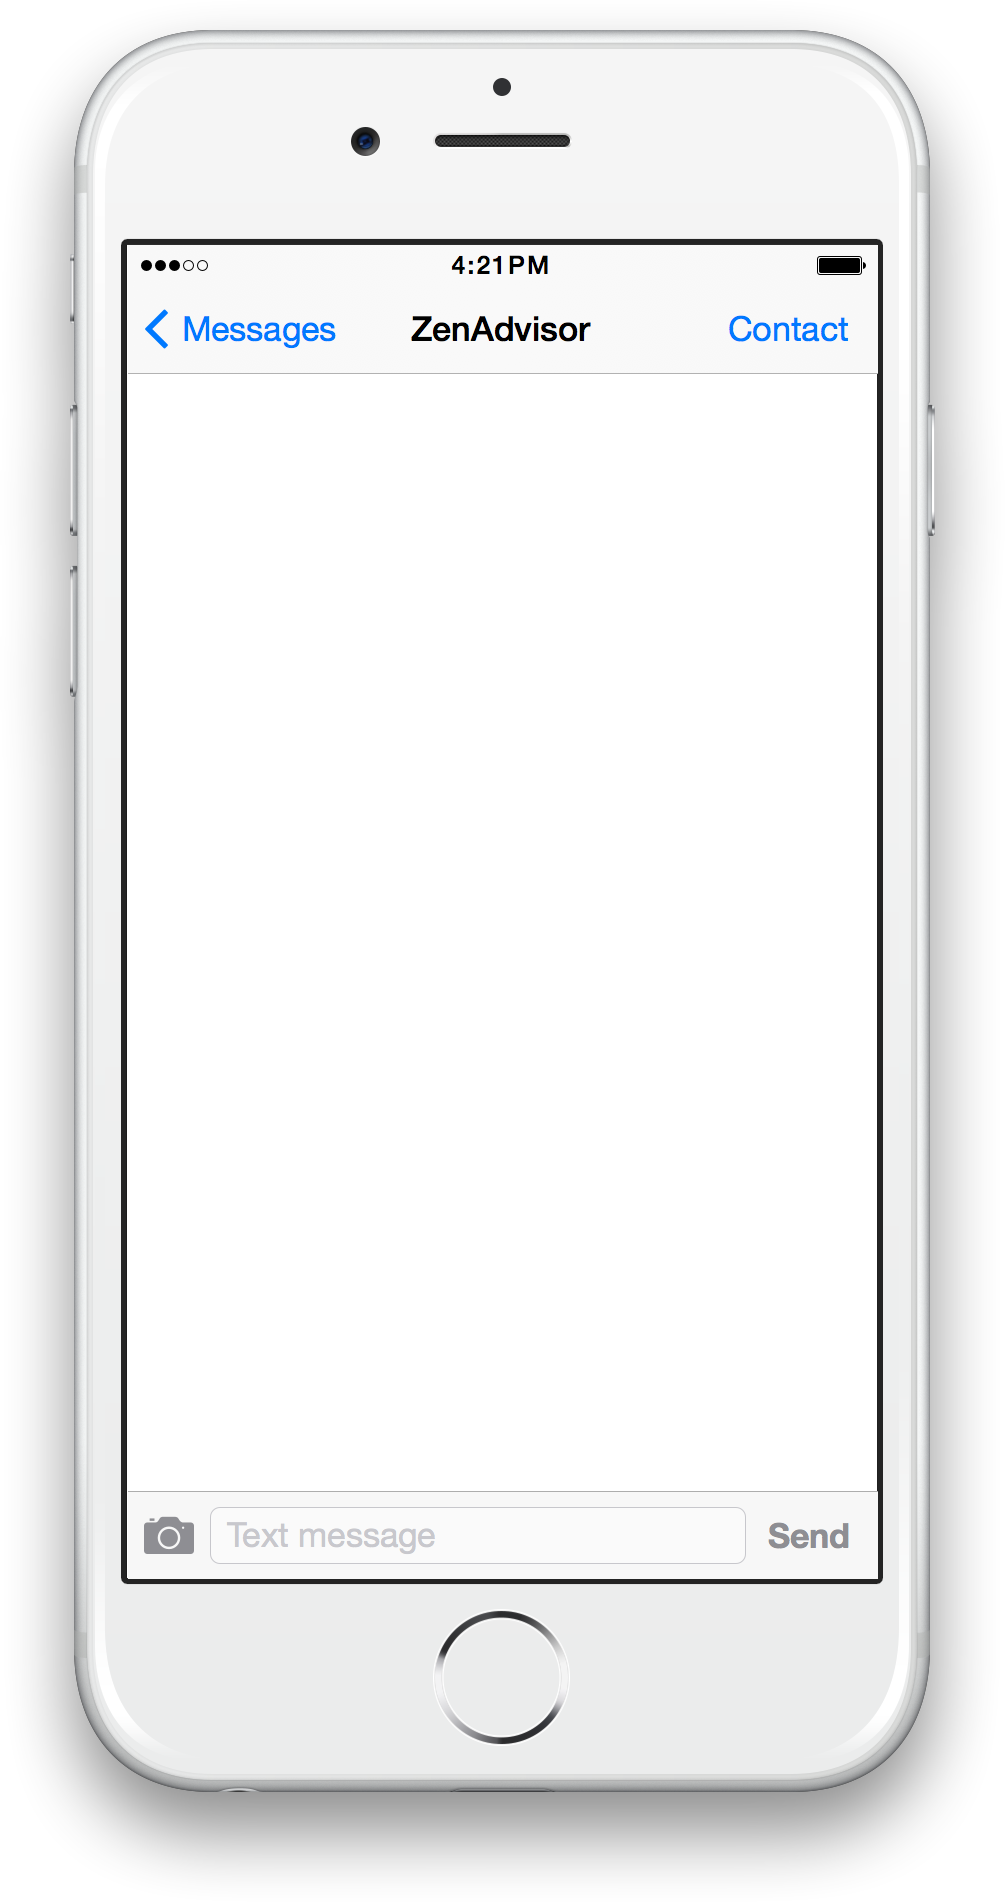
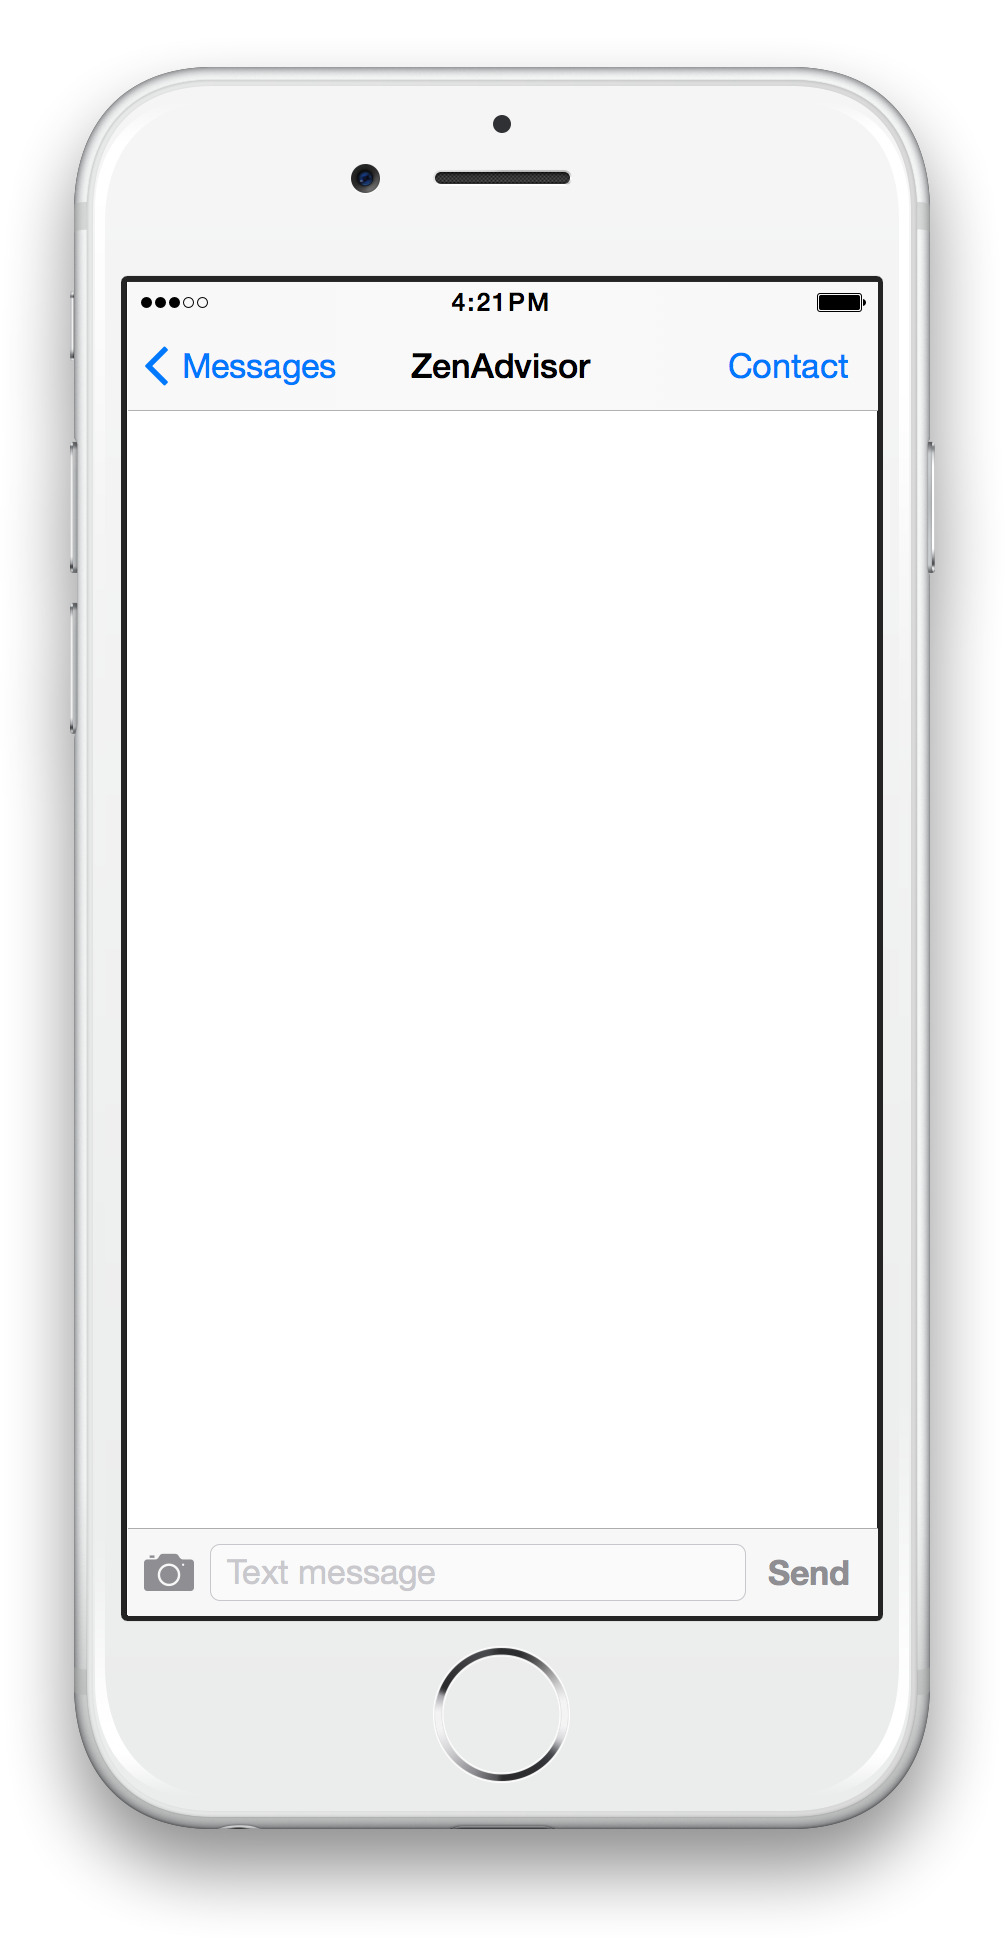
wip

diff --git a/public/blocks/mockup/mockup.less b/public/blocks/mockup/mockup.less
@@ -1,12 +1,93 @@
 .mockup {
-  width: 45%;
+  width: 50%;
   margin: 0 auto;
 
   &__phone {
-    padding-top: 18925%;
+    position: relative;
+    padding-top: 192.93%;
     background-position: center;
     background-repeat: no-repeat;
     background-image: url('img/iphone.png');
     background-size: contain;
+  }
+
+  &__phone-wrap {
+    display: flex;
+    align-items: center;
+    position: absolute;
+    height: 100%;
+    width: 100%;
+    left: 0;
+    top: 0;
+  }
+
+  &__messages {
+    overflow-y: auto;
+    margin: 0 auto;
+    width: 74.72%;
+    height: 57.71%;
+  }
+
+  &__message {
+    background-repeat: no-repeat;
+    background-position: center;
+    background-size: contain;
+  }
+
+  &__message_1 {
+    background-image: url("img/msg_01.png");
+    padding-top: 66.53%;
+  }
+  &__message_2 {
+    background-image: url("img/msg_02.png");
+    padding-top: 44.66%;
+  }
+  &__message_3 {
+    background-image: url("img/msg_03.png");
+    padding-top: 36.4%;
+  }
+  &__message_4{
+    background-image: url("img/msg_04.png");
+    padding-top: 50.26%;
+  }
+  &__message_5{
+    background-image: url("img/msg_05.png");
+    padding-top: 22.93%;
+  }
+  &__message_6{
+    background-image: url("img/msg_06.png");
+    padding-top: 12%;
+  }
+  &__message_7{
+    background-image: url("img/msg_07.png");
+    padding-top: 9.6%;
+  }
+  &__message_8{
+    background-image: url("img/msg_08.png");
+    padding-top: 24.4%;
+  }
+  &__message_9{
+    background-image: url("img/msg_09.png");
+    padding-top: 9.73%;
+  }
+  &__message_10{
+    background-image: url("img/msg_10.png");
+    padding-top: 19.2%;
+  }
+  &__message_11{
+    background-image: url("img/msg_11.png");
+    padding-top: 18.53%;
+  }
+  &__message_12{
+    background-image: url("img/msg_12.png");
+    padding-top: 12.16%;
+  }
+  &__message_13{
+    background-image: url("img/msg_13.png");
+    padding-top: 9.6%;
+  }
+  &__message_14{
+    background-image: url("img/msg_14.png");
+    padding-top: 39.6%;
   }
 }

diff --git a/public/blocks/layout/layout.js b/public/blocks/layout/layout.js
@@ -33,4 +33,5 @@ function onScroll() {
 function onResize() {
   heightMockup = $mockup.height()
   heightGirls = $girls.height()
+  console.log(heightMockup, heightGirls)
 }
